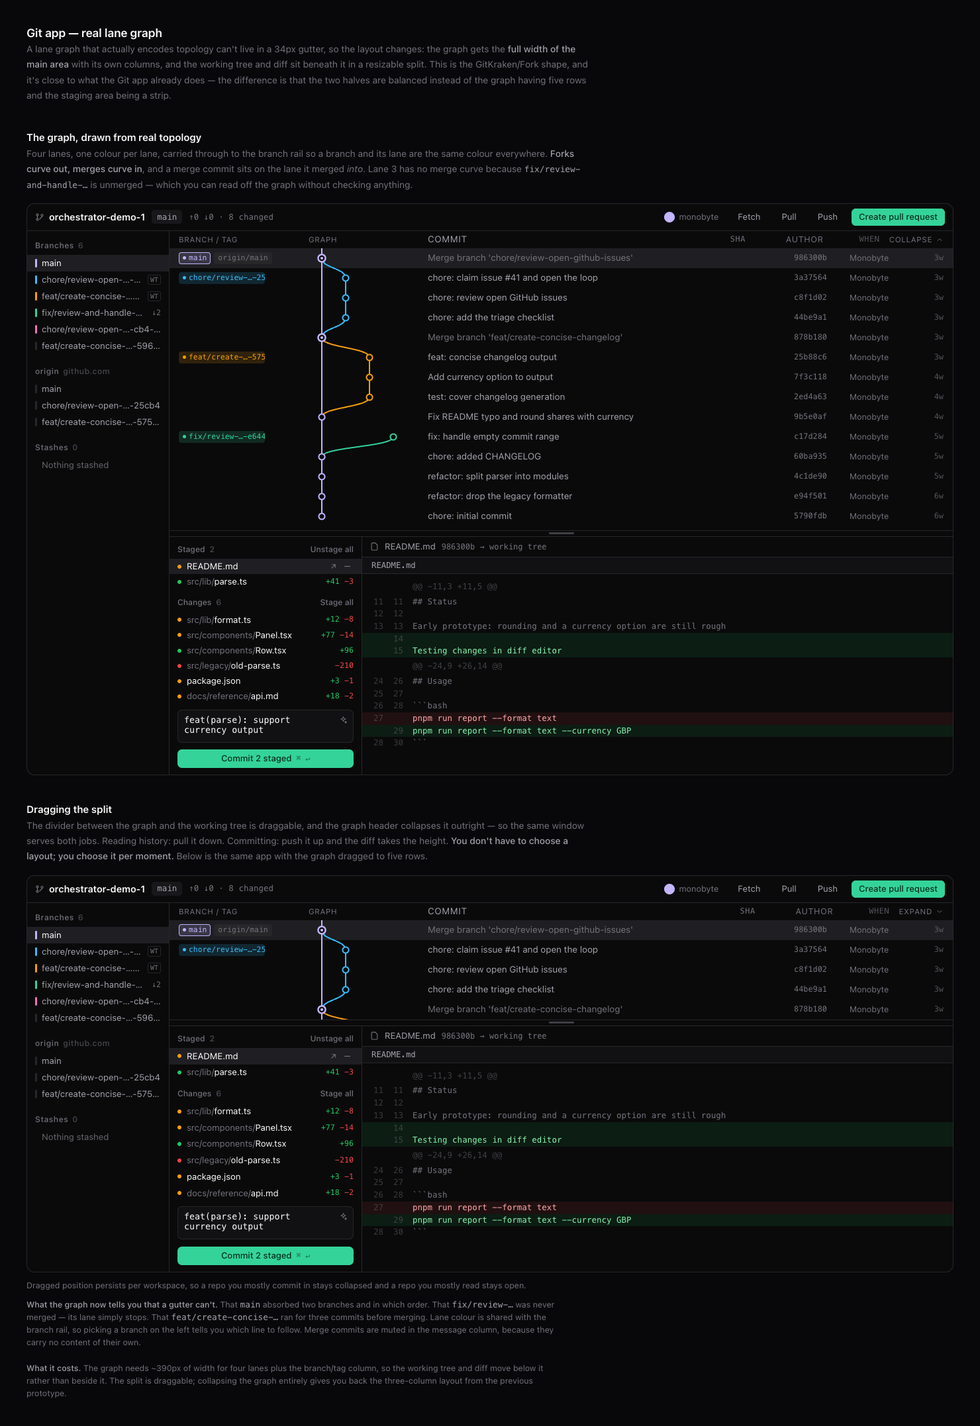
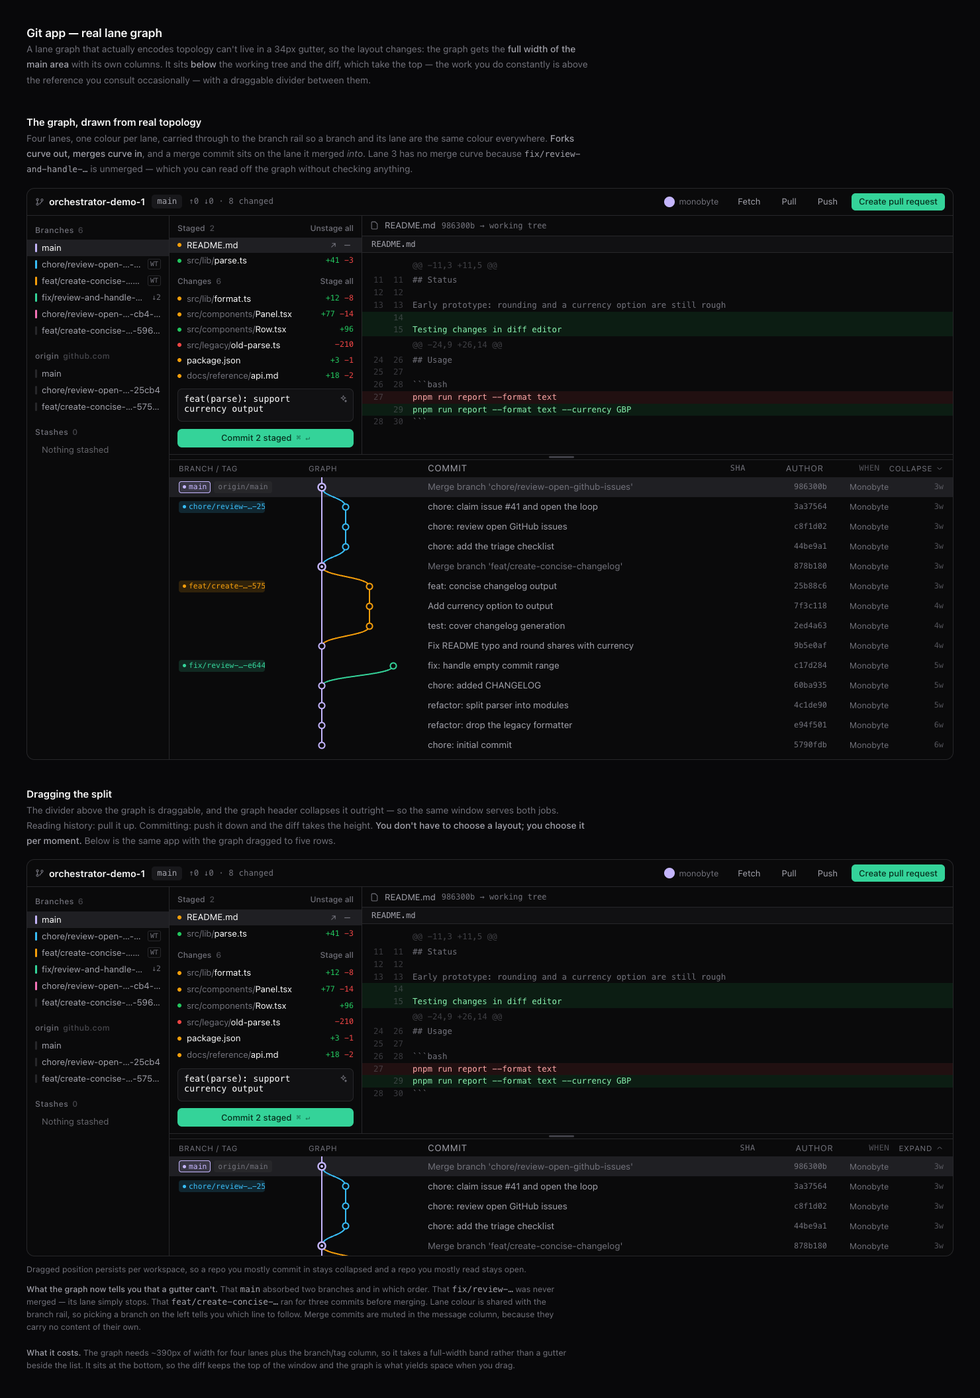
refactor(prototype): graph below the working tree and diff (#302)

diff --git a/docs/prototypes/git-ux/git-graph.html b/docs/prototypes/git-ux/git-graph.html
@@ -83,7 +83,7 @@ svg{flex:0 0 auto}
 .lanes{position:absolute;left:210px;top:0;width:180px;height:420px;pointer-events:none;z-index:1}
 .grid{overflow:hidden}
 .split{height:9px;flex:0 0 9px;display:flex;align-items:center;justify-content:center;cursor:row-resize;
-  background:var(--bg-base);border-top:1px solid var(--border-subtle)}
+  background:var(--bg-base);border-top:1px solid var(--border-subtle);border-bottom:1px solid var(--border-subtle)}
 .split:hover{background:var(--bg-elevated)}
 .split .grip{width:38px;height:3px;border-radius:2px;background:var(--border-default)}
 .split:hover .grip{background:var(--text-muted)}
@@ -92,7 +92,7 @@ svg{flex:0 0 auto}
 .chev:hover{color:var(--text-secondary)}
 
 /* ---- bottom detail ---- */
-.detail{flex:1;min-height:0;display:flex;border-top:1px solid var(--border-subtle)}
+.detail{flex:1;min-height:0;display:flex}
 .files{width:290px;flex:0 0 290px;display:flex;flex-direction:column;min-width:0}
 .sec{display:flex;align-items:center;gap:7px;padding:9px 12px 5px;font-size:0.76rem;font-weight:500;color:var(--text-muted)}
 .sec .n{opacity:.65} .sec .act{margin-left:auto;font-size:0.76rem;cursor:pointer}
@@ -133,10 +133,9 @@ svg{flex:0 0 auto}
 <h1>Git app — real lane graph</h1>
 <p class="lede">
 A lane graph that actually encodes topology can't live in a 34px gutter, so the layout changes: the graph gets
-the <b>full width of the main area</b> with its own columns, and the working tree and diff sit beneath it in a
-resizable split. This is the GitKraken/Fork shape, and it's close to what the Git app already does — the
-difference is that the two halves are balanced instead of the graph having five rows and the staging area
-being a strip.
+the <b>full width of the main area</b> with its own columns. It sits <b>below</b> the working tree and the diff,
+which take the top — the work you do constantly is above the reference you consult occasionally — with a
+draggable divider between them.
 </p>
 
 <h2>The graph, drawn from real topology</h2>
@@ -183,11 +182,62 @@ read off the graph without checking anything.
     <div class="vhair"></div>
 
     <div class="main">
+      <div class="detail">
+        <div class="files">
+          <div class="sec">Staged <span class="n">2</span><span class="act">Unstage all</span></div>
+          <div class="frow on"><span class="dot m"></span><span class="fn">README.md</span><span class="st"><span class="p">+2</span></span>
+            <span class="acts">
+              <span class="ab" title="Open in Explorer"><svg width="13" height="13" viewBox="0 0 24 24" fill="none" stroke="currentColor" stroke-width="2" stroke-linecap="round"><path d="M7 17 17 7M9 7h8v8"/></svg></span>
+              <span class="ab" title="Unstage"><svg width="13" height="13" viewBox="0 0 24 24" fill="none" stroke="currentColor" stroke-width="2.2" stroke-linecap="round"><path d="M5 12h14"/></svg></span>
+            </span>
+          </div>
+          <div class="frow"><span class="dot a"></span><span class="fn"><span class="dir">src/lib/</span>parse.ts</span><span class="st"><span class="p">+41</span> <span class="m">−3</span></span></div>
+          <div class="sec" style="padding-top:10px">Changes <span class="n">6</span><span class="act">Stage all</span></div>
+          <div class="frow"><span class="dot m"></span><span class="fn"><span class="dir">src/lib/</span>format.ts</span><span class="st"><span class="p">+12</span> <span class="m">−8</span></span></div>
+          <div class="frow"><span class="dot m"></span><span class="fn"><span class="dir">src/components/</span>Panel.tsx</span><span class="st"><span class="p">+77</span> <span class="m">−14</span></span></div>
+          <div class="frow"><span class="dot a"></span><span class="fn"><span class="dir">src/components/</span>Row.tsx</span><span class="st"><span class="p">+96</span></span></div>
+          <div class="frow"><span class="dot d"></span><span class="fn"><span class="dir">src/legacy/</span>old-parse.ts</span><span class="st"><span class="m">−210</span></span></div>
+          <div class="frow"><span class="dot m"></span><span class="fn">package.json</span><span class="st"><span class="p">+3</span> <span class="m">−1</span></span></div>
+          <div class="frow"><span class="dot m"></span><span class="fn"><span class="dir">docs/reference/</span>api.md</span><span class="st"><span class="p">+18</span> <span class="m">−2</span></span></div>
+          <div class="cbox">
+            <div class="mw">
+              <textarea class="mi">feat(parse): support currency output</textarea>
+              <span class="ai"><svg width="13" height="13" viewBox="0 0 24 24" fill="none" stroke="currentColor" stroke-width="1.8" stroke-linecap="round" stroke-linejoin="round"><path d="M12 3l1.9 4.6L18.5 9.5 13.9 11.4 12 16l-1.9-4.6L5.5 9.5l4.6-1.9z"/><path d="M18.5 15.5l.8 2 2 .8-2 .8-.8 2-.8-2-2-.8 2-.8z"/></svg></span>
+            </div>
+            <div class="cbtn">Commit 2 staged <span class="kbd">⌘ ↵</span></div>
+          </div>
+        </div>
+
+        <div class="diff">
+          <div class="dbar">
+            <svg width="13" height="13" viewBox="0 0 24 24" fill="none" stroke="var(--text-muted)" stroke-width="2"><path d="M14 2H6a2 2 0 0 0-2 2v16a2 2 0 0 0 2 2h12a2 2 0 0 0 2-2V8z"/></svg>
+            README.md <span class="mut">986300b → working tree</span>
+          </div>
+          <div class="fh">README.md</div>
+          <div class="dbody">
+            <div class="dl hunk"><span class="ln"></span><span class="tx">@@ -11,3 +11,5 @@</span></div>
+            <div class="dl"><span class="ln">11&nbsp;&nbsp;11</span><span class="tx">## Status</span></div>
+            <div class="dl"><span class="ln">12&nbsp;&nbsp;12</span><span class="tx"></span></div>
+            <div class="dl"><span class="ln">13&nbsp;&nbsp;13</span><span class="tx">Early prototype: rounding and a currency option are still rough</span></div>
+            <div class="dl add"><span class="ln">&nbsp;&nbsp;&nbsp;&nbsp;14</span><span class="tx"></span></div>
+            <div class="dl add"><span class="ln">&nbsp;&nbsp;&nbsp;&nbsp;15</span><span class="tx">Testing changes in diff editor</span></div>
+            <div class="dl hunk"><span class="ln"></span><span class="tx">@@ -24,9 +26,14 @@</span></div>
+            <div class="dl"><span class="ln">24&nbsp;&nbsp;26</span><span class="tx">## Usage</span></div>
+            <div class="dl"><span class="ln">25&nbsp;&nbsp;27</span><span class="tx"></span></div>
+            <div class="dl"><span class="ln">26&nbsp;&nbsp;28</span><span class="tx">```bash</span></div>
+            <div class="dl del"><span class="ln">27&nbsp;&nbsp;&nbsp;&nbsp;</span><span class="tx">pnpm run report --format text</span></div>
+            <div class="dl add"><span class="ln">&nbsp;&nbsp;&nbsp;&nbsp;29</span><span class="tx">pnpm run report --format text --currency GBP</span></div>
+            <div class="dl"><span class="ln">28&nbsp;&nbsp;30</span><span class="tx">```</span></div>
+          </div>
+        </div>
+      </div>
+
+      <div class="split"><span class="grip"></span></div>
       <div class="graphwrap">
         <div class="ghead">
           <span class="c1">Branch / tag</span><span class="c2">Graph</span><span class="c3">Commit</span>
           <span class="c4">SHA</span><span class="c5">Author</span><span class="c6">When</span>
-          <span class="chev">Collapse <svg width="12" height="12" viewBox="0 0 24 24" fill="none" stroke="currentColor" stroke-width="2" stroke-linecap="round"><path d="M6 15l6-6 6 6"/></svg></span>
+          <span class="chev">Collapse <svg width="12" height="12" viewBox="0 0 24 24" fill="none" stroke="currentColor" stroke-width="2" stroke-linecap="round"><path d="M6 9l6 6 6-6"/></svg></span>
         </div>
         <div class="grid">
           <svg class="lanes" width="180" height="420" viewBox="0 0 180 420">
@@ -246,66 +296,16 @@ read off the graph without checking anything.
         </div>
       </div>
 
-      <div class="split"><span class="grip"></span></div>
-      <div class="detail">
-        <div class="files">
-          <div class="sec">Staged <span class="n">2</span><span class="act">Unstage all</span></div>
-          <div class="frow on"><span class="dot m"></span><span class="fn">README.md</span><span class="st"><span class="p">+2</span></span>
-            <span class="acts">
-              <span class="ab" title="Open in Explorer"><svg width="13" height="13" viewBox="0 0 24 24" fill="none" stroke="currentColor" stroke-width="2" stroke-linecap="round"><path d="M7 17 17 7M9 7h8v8"/></svg></span>
-              <span class="ab" title="Unstage"><svg width="13" height="13" viewBox="0 0 24 24" fill="none" stroke="currentColor" stroke-width="2.2" stroke-linecap="round"><path d="M5 12h14"/></svg></span>
-            </span>
-          </div>
-          <div class="frow"><span class="dot a"></span><span class="fn"><span class="dir">src/lib/</span>parse.ts</span><span class="st"><span class="p">+41</span> <span class="m">−3</span></span></div>
-          <div class="sec" style="padding-top:10px">Changes <span class="n">6</span><span class="act">Stage all</span></div>
-          <div class="frow"><span class="dot m"></span><span class="fn"><span class="dir">src/lib/</span>format.ts</span><span class="st"><span class="p">+12</span> <span class="m">−8</span></span></div>
-          <div class="frow"><span class="dot m"></span><span class="fn"><span class="dir">src/components/</span>Panel.tsx</span><span class="st"><span class="p">+77</span> <span class="m">−14</span></span></div>
-          <div class="frow"><span class="dot a"></span><span class="fn"><span class="dir">src/components/</span>Row.tsx</span><span class="st"><span class="p">+96</span></span></div>
-          <div class="frow"><span class="dot d"></span><span class="fn"><span class="dir">src/legacy/</span>old-parse.ts</span><span class="st"><span class="m">−210</span></span></div>
-          <div class="frow"><span class="dot m"></span><span class="fn">package.json</span><span class="st"><span class="p">+3</span> <span class="m">−1</span></span></div>
-          <div class="frow"><span class="dot m"></span><span class="fn"><span class="dir">docs/reference/</span>api.md</span><span class="st"><span class="p">+18</span> <span class="m">−2</span></span></div>
-          <div class="cbox">
-            <div class="mw">
-              <textarea class="mi">feat(parse): support currency output</textarea>
-              <span class="ai"><svg width="13" height="13" viewBox="0 0 24 24" fill="none" stroke="currentColor" stroke-width="1.8" stroke-linecap="round" stroke-linejoin="round"><path d="M12 3l1.9 4.6L18.5 9.5 13.9 11.4 12 16l-1.9-4.6L5.5 9.5l4.6-1.9z"/><path d="M18.5 15.5l.8 2 2 .8-2 .8-.8 2-.8-2-2-.8 2-.8z"/></svg></span>
-            </div>
-            <div class="cbtn">Commit 2 staged <span class="kbd">⌘ ↵</span></div>
-          </div>
-        </div>
-
-        <div class="diff">
-          <div class="dbar">
-            <svg width="13" height="13" viewBox="0 0 24 24" fill="none" stroke="var(--text-muted)" stroke-width="2"><path d="M14 2H6a2 2 0 0 0-2 2v16a2 2 0 0 0 2 2h12a2 2 0 0 0 2-2V8z"/></svg>
-            README.md <span class="mut">986300b → working tree</span>
-          </div>
-          <div class="fh">README.md</div>
-          <div class="dbody">
-            <div class="dl hunk"><span class="ln"></span><span class="tx">@@ -11,3 +11,5 @@</span></div>
-            <div class="dl"><span class="ln">11&nbsp;&nbsp;11</span><span class="tx">## Status</span></div>
-            <div class="dl"><span class="ln">12&nbsp;&nbsp;12</span><span class="tx"></span></div>
-            <div class="dl"><span class="ln">13&nbsp;&nbsp;13</span><span class="tx">Early prototype: rounding and a currency option are still rough</span></div>
-            <div class="dl add"><span class="ln">&nbsp;&nbsp;&nbsp;&nbsp;14</span><span class="tx"></span></div>
-            <div class="dl add"><span class="ln">&nbsp;&nbsp;&nbsp;&nbsp;15</span><span class="tx">Testing changes in diff editor</span></div>
-            <div class="dl hunk"><span class="ln"></span><span class="tx">@@ -24,9 +26,14 @@</span></div>
-            <div class="dl"><span class="ln">24&nbsp;&nbsp;26</span><span class="tx">## Usage</span></div>
-            <div class="dl"><span class="ln">25&nbsp;&nbsp;27</span><span class="tx"></span></div>
-            <div class="dl"><span class="ln">26&nbsp;&nbsp;28</span><span class="tx">```bash</span></div>
-            <div class="dl del"><span class="ln">27&nbsp;&nbsp;&nbsp;&nbsp;</span><span class="tx">pnpm run report --format text</span></div>
-            <div class="dl add"><span class="ln">&nbsp;&nbsp;&nbsp;&nbsp;29</span><span class="tx">pnpm run report --format text --currency GBP</span></div>
-            <div class="dl"><span class="ln">28&nbsp;&nbsp;30</span><span class="tx">```</span></div>
-          </div>
-        </div>
-      </div>
     </div>
   </div>
 </div>
 
 <h2>Dragging the split</h2>
 <p class="note">
-The divider between the graph and the working tree is draggable, and the graph header collapses it outright —
-so the same window serves both jobs. Reading history: pull it down. Committing: push it up and the diff takes
-the height. <b>You don't have to choose a layout; you choose it per moment.</b> Below is the same app with the
-graph dragged to five rows.
+The divider above the graph is draggable, and the graph header collapses it outright — so the same window
+serves both jobs. Reading history: pull it up. Committing: push it down and the diff takes the height.
+<b>You don't have to choose a layout; you choose it per moment.</b> Below is the same app with the graph
+dragged to five rows.
 </p>
 
 <div class="app" style="height:600px">
@@ -344,11 +344,62 @@ graph dragged to five rows.
     <div class="vhair"></div>
 
     <div class="main">
+      <div class="detail">
+        <div class="files">
+          <div class="sec">Staged <span class="n">2</span><span class="act">Unstage all</span></div>
+          <div class="frow on"><span class="dot m"></span><span class="fn">README.md</span><span class="st"><span class="p">+2</span></span>
+            <span class="acts">
+              <span class="ab" title="Open in Explorer"><svg width="13" height="13" viewBox="0 0 24 24" fill="none" stroke="currentColor" stroke-width="2" stroke-linecap="round"><path d="M7 17 17 7M9 7h8v8"/></svg></span>
+              <span class="ab" title="Unstage"><svg width="13" height="13" viewBox="0 0 24 24" fill="none" stroke="currentColor" stroke-width="2.2" stroke-linecap="round"><path d="M5 12h14"/></svg></span>
+            </span>
+          </div>
+          <div class="frow"><span class="dot a"></span><span class="fn"><span class="dir">src/lib/</span>parse.ts</span><span class="st"><span class="p">+41</span> <span class="m">−3</span></span></div>
+          <div class="sec" style="padding-top:10px">Changes <span class="n">6</span><span class="act">Stage all</span></div>
+          <div class="frow"><span class="dot m"></span><span class="fn"><span class="dir">src/lib/</span>format.ts</span><span class="st"><span class="p">+12</span> <span class="m">−8</span></span></div>
+          <div class="frow"><span class="dot m"></span><span class="fn"><span class="dir">src/components/</span>Panel.tsx</span><span class="st"><span class="p">+77</span> <span class="m">−14</span></span></div>
+          <div class="frow"><span class="dot a"></span><span class="fn"><span class="dir">src/components/</span>Row.tsx</span><span class="st"><span class="p">+96</span></span></div>
+          <div class="frow"><span class="dot d"></span><span class="fn"><span class="dir">src/legacy/</span>old-parse.ts</span><span class="st"><span class="m">−210</span></span></div>
+          <div class="frow"><span class="dot m"></span><span class="fn">package.json</span><span class="st"><span class="p">+3</span> <span class="m">−1</span></span></div>
+          <div class="frow"><span class="dot m"></span><span class="fn"><span class="dir">docs/reference/</span>api.md</span><span class="st"><span class="p">+18</span> <span class="m">−2</span></span></div>
+          <div class="cbox">
+            <div class="mw">
+              <textarea class="mi">feat(parse): support currency output</textarea>
+              <span class="ai"><svg width="13" height="13" viewBox="0 0 24 24" fill="none" stroke="currentColor" stroke-width="1.8" stroke-linecap="round" stroke-linejoin="round"><path d="M12 3l1.9 4.6L18.5 9.5 13.9 11.4 12 16l-1.9-4.6L5.5 9.5l4.6-1.9z"/><path d="M18.5 15.5l.8 2 2 .8-2 .8-.8 2-.8-2-2-.8 2-.8z"/></svg></span>
+            </div>
+            <div class="cbtn">Commit 2 staged <span class="kbd">⌘ ↵</span></div>
+          </div>
+        </div>
+
+        <div class="diff">
+          <div class="dbar">
+            <svg width="13" height="13" viewBox="0 0 24 24" fill="none" stroke="var(--text-muted)" stroke-width="2"><path d="M14 2H6a2 2 0 0 0-2 2v16a2 2 0 0 0 2 2h12a2 2 0 0 0 2-2V8z"/></svg>
+            README.md <span class="mut">986300b → working tree</span>
+          </div>
+          <div class="fh">README.md</div>
+          <div class="dbody">
+            <div class="dl hunk"><span class="ln"></span><span class="tx">@@ -11,3 +11,5 @@</span></div>
+            <div class="dl"><span class="ln">11&nbsp;&nbsp;11</span><span class="tx">## Status</span></div>
+            <div class="dl"><span class="ln">12&nbsp;&nbsp;12</span><span class="tx"></span></div>
+            <div class="dl"><span class="ln">13&nbsp;&nbsp;13</span><span class="tx">Early prototype: rounding and a currency option are still rough</span></div>
+            <div class="dl add"><span class="ln">&nbsp;&nbsp;&nbsp;&nbsp;14</span><span class="tx"></span></div>
+            <div class="dl add"><span class="ln">&nbsp;&nbsp;&nbsp;&nbsp;15</span><span class="tx">Testing changes in diff editor</span></div>
+            <div class="dl hunk"><span class="ln"></span><span class="tx">@@ -24,9 +26,14 @@</span></div>
+            <div class="dl"><span class="ln">24&nbsp;&nbsp;26</span><span class="tx">## Usage</span></div>
+            <div class="dl"><span class="ln">25&nbsp;&nbsp;27</span><span class="tx"></span></div>
+            <div class="dl"><span class="ln">26&nbsp;&nbsp;28</span><span class="tx">```bash</span></div>
+            <div class="dl del"><span class="ln">27&nbsp;&nbsp;&nbsp;&nbsp;</span><span class="tx">pnpm run report --format text</span></div>
+            <div class="dl add"><span class="ln">&nbsp;&nbsp;&nbsp;&nbsp;29</span><span class="tx">pnpm run report --format text --currency GBP</span></div>
+            <div class="dl"><span class="ln">28&nbsp;&nbsp;30</span><span class="tx">```</span></div>
+          </div>
+        </div>
+      </div>
+
+      <div class="split"><span class="grip"></span></div>
       <div class="graphwrap" style="height:176px;flex:0 0 176px">
         <div class="ghead">
           <span class="c1">Branch / tag</span><span class="c2">Graph</span><span class="c3">Commit</span>
           <span class="c4">SHA</span><span class="c5">Author</span><span class="c6">When</span>
-          <span class="chev">Expand <svg width="12" height="12" viewBox="0 0 24 24" fill="none" stroke="currentColor" stroke-width="2" stroke-linecap="round"><path d="M6 9l6 6 6-6"/></svg></span>
+          <span class="chev">Expand <svg width="12" height="12" viewBox="0 0 24 24" fill="none" stroke="currentColor" stroke-width="2" stroke-linecap="round"><path d="M6 15l6-6 6 6"/></svg></span>
         </div>
         <div class="grid">
           <svg class="lanes" width="180" height="420" viewBox="0 0 180 420">
@@ -407,56 +458,6 @@ graph dragged to five rows.
         </div>
       </div>
 
-      <div class="split"><span class="grip"></span></div>
-      <div class="detail">
-        <div class="files">
-          <div class="sec">Staged <span class="n">2</span><span class="act">Unstage all</span></div>
-          <div class="frow on"><span class="dot m"></span><span class="fn">README.md</span><span class="st"><span class="p">+2</span></span>
-            <span class="acts">
-              <span class="ab" title="Open in Explorer"><svg width="13" height="13" viewBox="0 0 24 24" fill="none" stroke="currentColor" stroke-width="2" stroke-linecap="round"><path d="M7 17 17 7M9 7h8v8"/></svg></span>
-              <span class="ab" title="Unstage"><svg width="13" height="13" viewBox="0 0 24 24" fill="none" stroke="currentColor" stroke-width="2.2" stroke-linecap="round"><path d="M5 12h14"/></svg></span>
-            </span>
-          </div>
-          <div class="frow"><span class="dot a"></span><span class="fn"><span class="dir">src/lib/</span>parse.ts</span><span class="st"><span class="p">+41</span> <span class="m">−3</span></span></div>
-          <div class="sec" style="padding-top:10px">Changes <span class="n">6</span><span class="act">Stage all</span></div>
-          <div class="frow"><span class="dot m"></span><span class="fn"><span class="dir">src/lib/</span>format.ts</span><span class="st"><span class="p">+12</span> <span class="m">−8</span></span></div>
-          <div class="frow"><span class="dot m"></span><span class="fn"><span class="dir">src/components/</span>Panel.tsx</span><span class="st"><span class="p">+77</span> <span class="m">−14</span></span></div>
-          <div class="frow"><span class="dot a"></span><span class="fn"><span class="dir">src/components/</span>Row.tsx</span><span class="st"><span class="p">+96</span></span></div>
-          <div class="frow"><span class="dot d"></span><span class="fn"><span class="dir">src/legacy/</span>old-parse.ts</span><span class="st"><span class="m">−210</span></span></div>
-          <div class="frow"><span class="dot m"></span><span class="fn">package.json</span><span class="st"><span class="p">+3</span> <span class="m">−1</span></span></div>
-          <div class="frow"><span class="dot m"></span><span class="fn"><span class="dir">docs/reference/</span>api.md</span><span class="st"><span class="p">+18</span> <span class="m">−2</span></span></div>
-          <div class="cbox">
-            <div class="mw">
-              <textarea class="mi">feat(parse): support currency output</textarea>
-              <span class="ai"><svg width="13" height="13" viewBox="0 0 24 24" fill="none" stroke="currentColor" stroke-width="1.8" stroke-linecap="round" stroke-linejoin="round"><path d="M12 3l1.9 4.6L18.5 9.5 13.9 11.4 12 16l-1.9-4.6L5.5 9.5l4.6-1.9z"/><path d="M18.5 15.5l.8 2 2 .8-2 .8-.8 2-.8-2-2-.8 2-.8z"/></svg></span>
-            </div>
-            <div class="cbtn">Commit 2 staged <span class="kbd">⌘ ↵</span></div>
-          </div>
-        </div>
-
-        <div class="diff">
-          <div class="dbar">
-            <svg width="13" height="13" viewBox="0 0 24 24" fill="none" stroke="var(--text-muted)" stroke-width="2"><path d="M14 2H6a2 2 0 0 0-2 2v16a2 2 0 0 0 2 2h12a2 2 0 0 0 2-2V8z"/></svg>
-            README.md <span class="mut">986300b → working tree</span>
-          </div>
-          <div class="fh">README.md</div>
-          <div class="dbody">
-            <div class="dl hunk"><span class="ln"></span><span class="tx">@@ -11,3 +11,5 @@</span></div>
-            <div class="dl"><span class="ln">11&nbsp;&nbsp;11</span><span class="tx">## Status</span></div>
-            <div class="dl"><span class="ln">12&nbsp;&nbsp;12</span><span class="tx"></span></div>
-            <div class="dl"><span class="ln">13&nbsp;&nbsp;13</span><span class="tx">Early prototype: rounding and a currency option are still rough</span></div>
-            <div class="dl add"><span class="ln">&nbsp;&nbsp;&nbsp;&nbsp;14</span><span class="tx"></span></div>
-            <div class="dl add"><span class="ln">&nbsp;&nbsp;&nbsp;&nbsp;15</span><span class="tx">Testing changes in diff editor</span></div>
-            <div class="dl hunk"><span class="ln"></span><span class="tx">@@ -24,9 +26,14 @@</span></div>
-            <div class="dl"><span class="ln">24&nbsp;&nbsp;26</span><span class="tx">## Usage</span></div>
-            <div class="dl"><span class="ln">25&nbsp;&nbsp;27</span><span class="tx"></span></div>
-            <div class="dl"><span class="ln">26&nbsp;&nbsp;28</span><span class="tx">```bash</span></div>
-            <div class="dl del"><span class="ln">27&nbsp;&nbsp;&nbsp;&nbsp;</span><span class="tx">pnpm run report --format text</span></div>
-            <div class="dl add"><span class="ln">&nbsp;&nbsp;&nbsp;&nbsp;29</span><span class="tx">pnpm run report --format text --currency GBP</span></div>
-            <div class="dl"><span class="ln">28&nbsp;&nbsp;30</span><span class="tx">```</span></div>
-          </div>
-        </div>
-      </div>
     </div>
   </div>
 </div>
@@ -474,9 +475,9 @@ order. That <code>fix/review-…</code> was never merged — its lane simply sto
 rail, so picking a branch on the left tells you which line to follow. Merge commits are muted in the message
 column, because they carry no content of their own.
 <br><br>
-<b>What it costs.</b> The graph needs ~390px of width for four lanes plus the branch/tag column, so the working
-tree and diff move below it rather than beside it. The split is draggable; collapsing the graph entirely gives
-you back the three-column layout from the previous prototype.
+<b>What it costs.</b> The graph needs ~390px of width for four lanes plus the branch/tag column, so it takes a
+full-width band rather than a gutter beside the list. It sits at the bottom, so the diff keeps the top of the
+window and the graph is what yields space when you drag.
 </p>
 
 </body>
